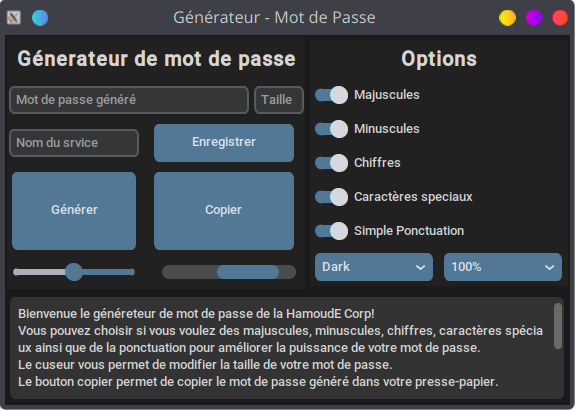
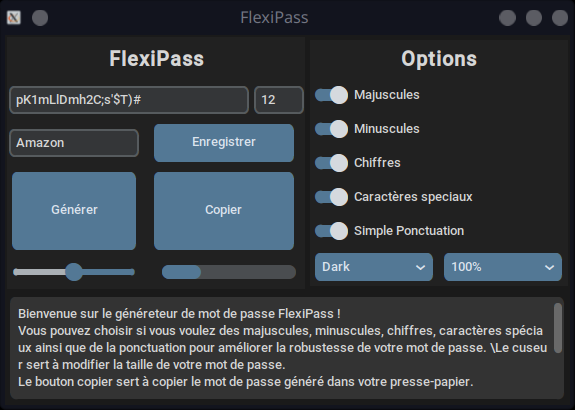
Update README.md (projet lèrement modifié) + new menu image)

diff --git a/README.md b/README.md
@@ -59,3 +59,6 @@ Les mots de passe générés peuvent être enregistrés dans un fichier `mots_de
 - Ajouter un affichage explicite du niveau de sécurité.
 - Ajouter une image personnalisée à la fenêtre.
 
+### PS
+
+Le projet a légèrement été modifié depuis le lycée, notamment le nom du logiciel.
